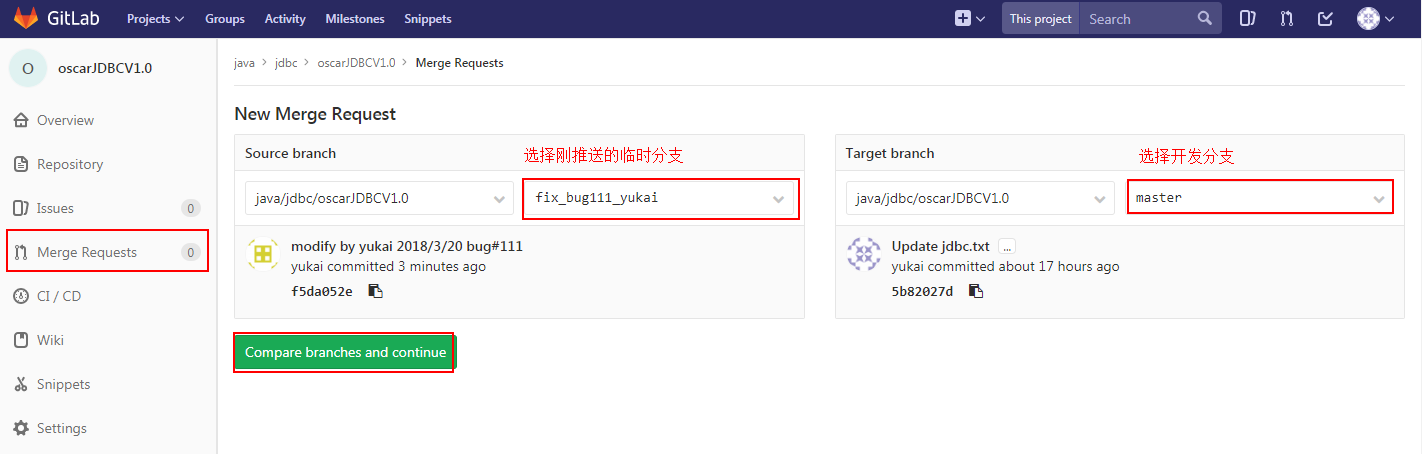
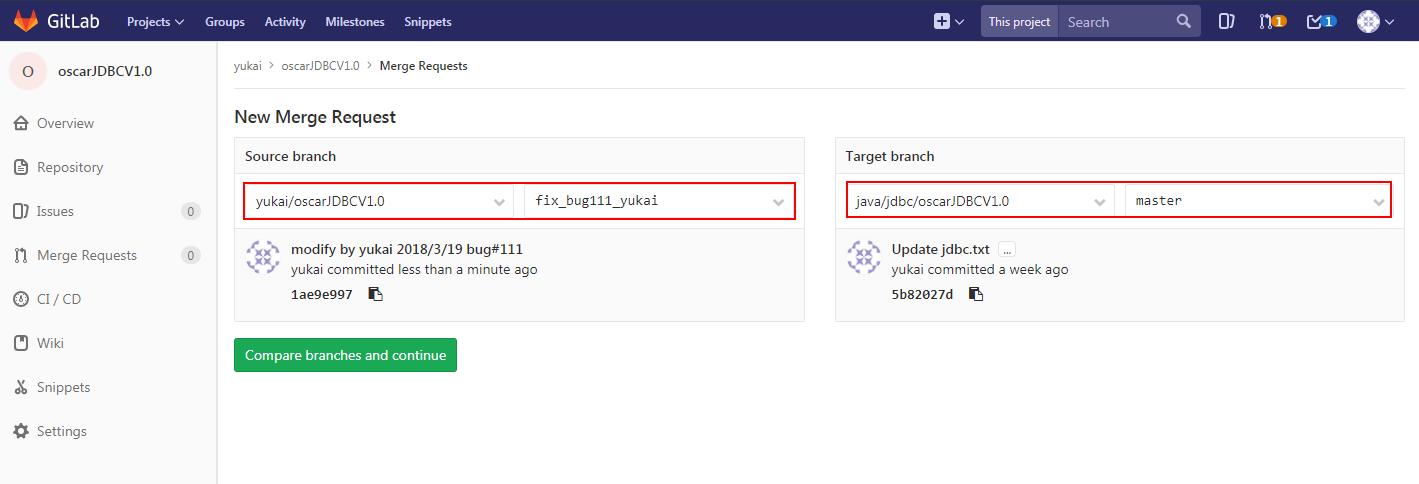
还是改回了fork仓库的形式提交mr

diff --git a/review/basis.md b/review/basis.md
@@ -1,0 +1,46 @@
+# 基础知识
+
+合并请求[^1]（Merge Request）是在 GitLab 上进行代码协作的基础。合并请求，即：请求将一个分支（源分支）合并到另一个分支（目的分支）。
+
+为了叙述方便，我们约定以下几个关键词：
+
+- **项目**：指的是由组长在群组内创建的项目，是各个成员共同协作的项目，比如 git@192.168.1.101/java/jdbc/oscarJDBCV1.0.git；
+
+- **fork项目**：群组内项目的 fork 版本，位于自己的命名空间下git@192.168.1.101/yukai/oscarJDBCV1.0.git；
+
+- **本地项目**：位于自己机器上的**fork项目**克隆版本。
+
+在[工作流](/workflow/workflow.md)章节中，已经列举了日常修改代码的流程。可知，源分支即**fork项目中新建的分支**；目的分支即**项目的开发分支**。
+
+每次发起 Merge Request 时，就是请求从**创建的临时分支**合并到**项目的开发分支**上。
+
+Merge Request 流程如下：
+
+1. 准备工作：
+   - 项目组长将 Master 分支和 Production 分支设置为保护分支。只允许 Master 合并到这两个分支，不允许任何人推送到这两个分支；
+
+   - 项目成员将项目代码 fork 到自己的命名空间下，并将自己命名空间下的项目 [clone](/setup/clone.md) 到本地； 
+
+   - 设置**本地项目开发分支**跟踪**项目开发分支**（远程分支）
+
+2. 提交代码：
+   
+   - 拉取远程分支的内容，更新本地开发分支；
+
+   - **从开发分支**创建临时分支并检出到新分支；
+
+   - 针对需求或者 BUG，修改代码，推送新分支到远程仓库；
+   
+   - 发起 [Merge Request](/review/local-modify.md)，请求合并代码到 Master 分支（或其他分支）；
+
+   - 项目组长[评审代码](/review/discuss.md)，进行讨论，最终评审通过，代码被项目组长合并到 Master 分支；
+
+![](/assets/mr-flow.png)
+
+
+[^1]: 类似于 Starteam review request，即提交代码评审.
+
+
+
+
+

diff --git a/review/update.md b/review/update.md
@@ -1,16 +1,24 @@
 # 更新本地代码
 
-合并请求[^1]（Merge Request）是在 GitLab 上进行代码协作的基础。合并请求，即：请求将一个分支（源分支）合并到另一个分支（目的分支）。
+## 跟踪远程开发分支
 
-在[工作流](/workflow/workflow.md)章节中，已经列举了日常修改代码的流程。可知，源分支即从目的分支检出的新分支；目的分支即项目的开发分支。
+想要追踪目的分支的代码，首先需要在 SourceTree 中配置远程仓库 URL。打开  SourceTree，点击`工具栏->仓库->仓库设置`：
 
-每次发起 Merge Request 时，就是从**创建的临时分支**合并到**项目的开发分支**上。
+![](/assets/sourcetree-add-url.png)
+
+点击添加按钮：
+
+![](/assets/sourcetree-url-detail.png)
+
+配置好目的分支的URL，即群组内项目的仓库地址，并为该远程仓库起一个名字。
+
+点击确定完成添加。
+
+## 拉取更新
 
 在提交 Merge Request 之前，有可能有其他的组员已经合并了代码到目的分支上，而此时我们源分支的代码已经落后于目的分支，此时提交 Merge Request 就会引起[冲突](https://about.gitlab.com/2016/09/06/resolving-merge-conflicts-from-the-gitlab-ui/)。
 
 所以，在**修改本地代码之前**，我们应该先检查一下目的分支的代码是否有更新，若有更新，则同步到本地代码，这是一个好的习惯。
-
-## 拉取更新
 
 点击工具栏 `拉取` 按钮，弹出对话框：
 
@@ -38,7 +46,7 @@
 
 可以看到，新分支已经创建完成并检出（加粗分支为检出分支）。
 
-[^1]: 类似于 Starteam review request，即提交代码评审.
+
 
 
 

diff --git a/workflow/workflow.md b/workflow/workflow.md
@@ -18,20 +18,12 @@ Git 作为一个源码管理系统，不可避免涉及到多人协作。
 
 以平时开发为例：
 
-1. 项目组长将 Master 分支和 Production 分支设置为保护分支。只允许 Master 合并到这两个分支，不允许任何人推送到这两个分支；
+日常开发：
 
-2. 项目成员将项目代码 clone 到本地或拉取最新代码；
+    - 组内成员反复提交 [Merge Request](/review/basis.md)，修改 Bug 或增加功能。
 
-3. **从开发分支**创建临时分支并检出到新分支；
+发布版本：   
 
-3. 针对需求或者 BUG，修改代码，推送新分支到远程仓库；
+    - 到了发布日，项目组长将 Master 分支的代码合并到 Production 分支；
 
-4. 发起 [Merge Request](/review/local-modify.md)，请求合并代码到 Master 分支（或其他分支）；
-
-5. 项目组长评审代码，进行讨论，最终评审通过，代码被项目组长合并到 Master 分支；
-
-6. 2-4 步反复进行；
-
-7. 到了发布日，项目组长将 Master 分支的代码合并到 Production 分支；
-
-8. 发布系统拉取 Production 代码进行编译发布。
+    - 发布系统拉取 Production 代码进行编译发布。

diff --git a/SUMMARY.md b/SUMMARY.md
@@ -11,16 +11,18 @@
   * [\* 创建群组](setup/create-group.md)
   * [\* 创建项目](setup/create-project.md)
   * [\* 创建分支](setup/create-branch.md)
+  * [Fork项目](setup/fork.md)
   * [克隆项目](setup/clone.md)
 * [配置](config/README.md)
   * [\* 创建保护分支](config/protected-branch.md)
   * [\* 角色与权限](config/permission.md)
-* [工作流](workflow/workflow.md)
 * [代码评审](review/README.md)
+  * [基础知识](review/basis.md)
   * [更新代码并创建分支](review/update.md)
   * [修改代码并提交评审](review/local-modify.md)
   * [查看评审并评论](review/discuss.md)
   * [\* 合并代码](review/merge.md)
+* [工作流](workflow/workflow.md)
 * [其他](others/README.md)
   * [\* 配置.gitignore](others/ignore.md)
   * [解决冲突](others/merge-conflict.md)

diff --git a/setup/clone.md b/setup/clone.md
@@ -2,11 +2,15 @@
 
 ## 复制远程仓库地址
 
-开发人员要对代码进行修改，首先要将项目代码克隆到本地。
+开发人员要对代码进行修改，首先要 [Fork 项目到自己的命名空间](/setup/fork.md)，然后将**自己命名空间下的项目**代码克隆到本地进行修改。
 
-打开 Gitlab，进入项目主页：
+打开 Gitlab，点击工具栏 `Projects`，点击 `Your projects`：
 
-![](/assets/gitlab-cp-url.png)
+![](/assets/show-fork.png)
+
+点击进入**自己命名空间下的项目**：
+
+![](/assets/clone.png)
 
 选择 SSH 协议，点击仓库地址右侧按钮，复制仓库地址。
 
@@ -17,4 +21,5 @@
 ![](/assets/sourcetree-clone.png)
 
 输入上述步骤复制的仓库地址，选择本地克隆仓库位置，点击 `克隆` 按钮，完成克隆。
+
 

diff --git a/review/local-modify.md b/review/local-modify.md
@@ -36,13 +36,13 @@
 
 ![](/assets/sourcetree-push.png)
 
-注意选择创建的临时分支进行推送，Gitlab 会自动自远程仓库创建同名的分支。
+注意选择临时分支进行推送，推送到fork项目下，Gitlab 会自动在远程仓库创建同名的分支。
 
 点击 `推送` 按钮，将更改推送到远程仓库。
 
 ## 提交评审
 
-打开 Gitlab，进入项目主页，点击左侧列表 `Merge Requests`，点击 `New merge request`：
+打开 Gitlab，进入 fork 项目主页，点击左侧列表 `Merge Requests`，点击 `New merge request`：
 
 ![](/assets/gitlab-mr-create.png)
 
